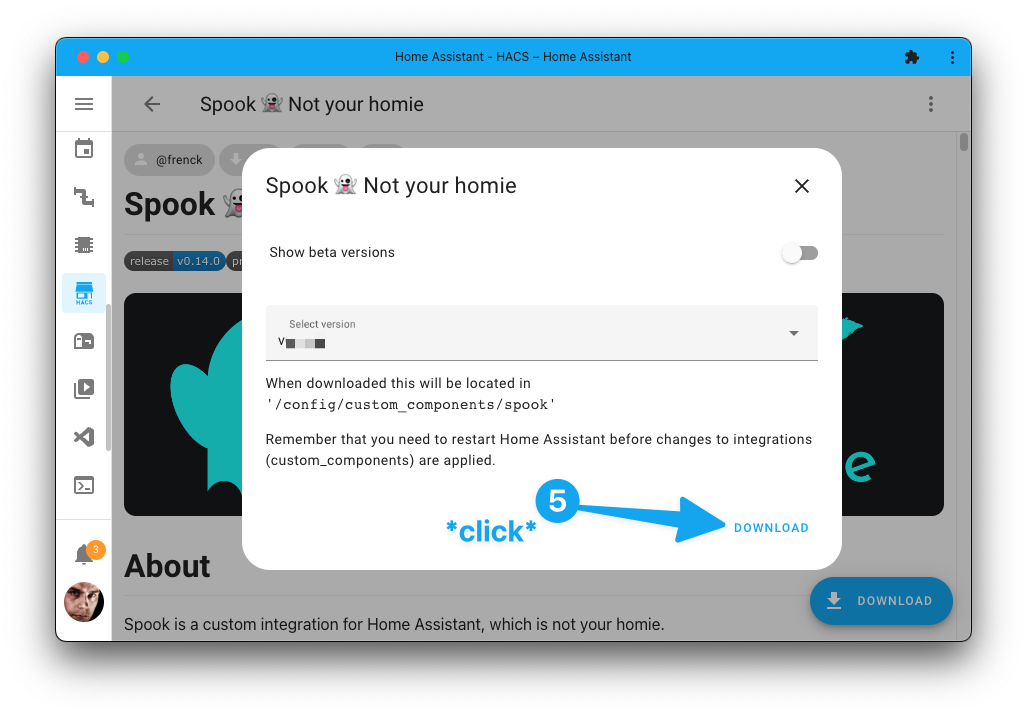
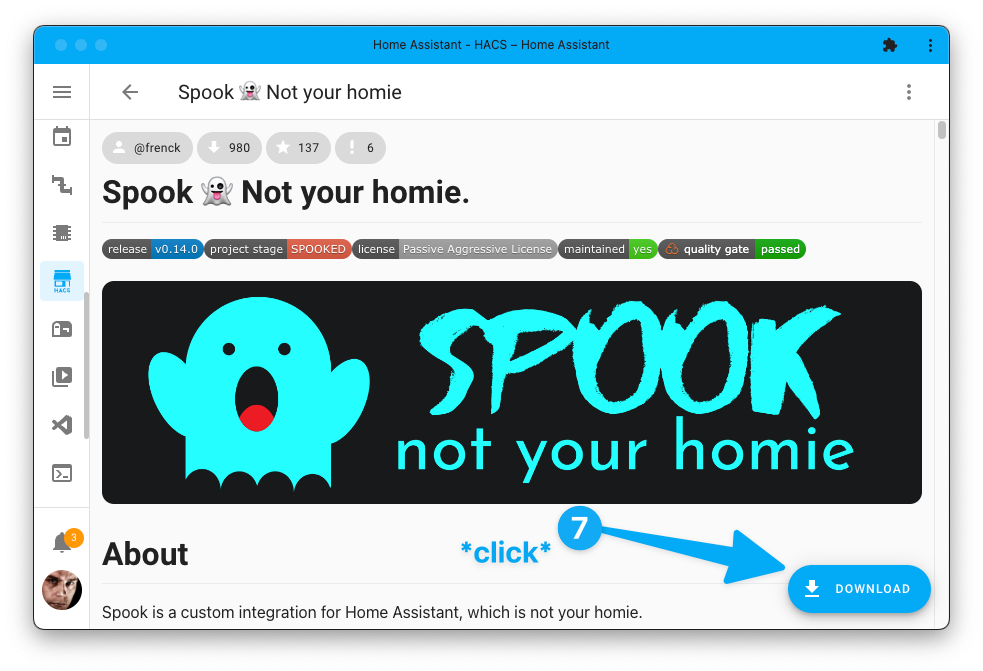
Extend installation for both HACS standard and experimental

diff --git a/documentation/installation.md b/documentation/installation.md
@@ -46,17 +46,38 @@ If you have met these requirements, you are ready to install Spook. 🎉
 
 Time to download and install Spook 👻 onto your Home Assistant instance.
 
+:::{note}
+HACS can be configured to run in two different modes: **standard** and **experimental**. Spook is available in both modes, but the installation process is slightly different.
+If you are using the **experimental** mode, be sure to select the **HACS with experimental mode enabled** tab below.
+:::
+
 :::{tip}
 You can use select the {term}`My Home Assistant` button below, which will navigate you to Spook in HACS directly on your Home Assistant instance.
 
 [![Open your Home Assistant instance and open a repository inside the Home Assistant Community Store.](https://my.home-assistant.io/badges/hacs_repository.svg)](https://my.home-assistant.io/redirect/hacs_repository/?owner=frenck&repository=spook&category=integration)
 
-You can skip step 1, 2, and 3 if you use the button above.
+You can directly go to step 6 if you use the button above (step 4 in case of using HACS experimental mode).
 :::
 
+::::{tab-set}
+
+:::{tab-item} Standard HACS
+:sync: standard
+
 1. From the Home Assistant sidebar, select **HACS**. This will open the Home Assistant Community Store dashboard.
-2. Select the search bar in the top of the dashboard and search for `Spook`.
-3. Spook should now appear in the search results. Select it.
+2. Select **Integrations**.
+
+   ```{figure} images/installation/hacs_integrations.png
+   :name: Open HACS and go to integrations
+   :alt: Screenshot showing the HACS dashboard.
+   :align: center
+
+   Spook is an integration, so we need to go to the integrations page in HACS.
+   ```
+
+3. Select the **Explore & download repositories** button in the bottom right corner.
+4. Select the search bar in the dialog shown and search for `Spook`.
+5. Spook should now appear in the search results. Select it.
 
    ```{figure} images/installation/hacs_find_spook.png
    :name: Find and install Spook in HACS
@@ -66,7 +87,7 @@ You can skip step 1, 2, and 3 if you use the button above.
    Finding Spook in the Home Assistant Community Store.
    ```
 
-4. On the Spook page in HACS, select the **Download** button in the bottom right corner.
+6. On the Spook page in HACS, select the **Download** button in the bottom right corner.
 
    ```{figure} images/installation/hacs_download_fab.png
    :name: Select the Download button on the Spook page in HACS
@@ -76,9 +97,60 @@ You can skip step 1, 2, and 3 if you use the button above.
    Select the big download button in the bottom right.
    ```
 
-5. In the download dialog shown, select **Download** to download the Spook integration to your Home Assistant instance.
+7. In the download dialog shown, select **Download** to download the Spook integration to your Home Assistant instance.
 
    ```{figure} images/installation/hacs_download.png
+   :name: Download Spook in HACS
+   :alt: Screenshot showing the download dialog in HACS.
+   :align: center
+
+   Download Spook in HACS.
+   ```
+
+8. After the download process has completed you need to restart Home Assistant in order for Home Assistant to see the new Spook integration.
+
+   1. Select **Settings** from the sidebar, and then select **System**.
+   2. Select the power button in the top right corner.
+   3. Select **Restart Home Assistant** in the dialog that appears.
+
+   ```{figure} images/installation/restart_home_assistant.png
+   :name: Restart Home Assistant
+   :alt: Screenshot showing the Home Assistant restart dialog.
+   :align: center
+
+   Restart Home Assistant.
+   ```
+
+:::
+
+:::{tab-item} HACS with experimental mode enabled
+:sync: experimental
+
+1. From the Home Assistant sidebar, select **HACS**. This will open the Home Assistant Community Store dashboard.
+2. Select the search bar in the top of the dashboard and search for `Spook`.
+3. Spook should now appear in the search results. Select it.
+
+   ```{figure} images/installation/hacs_experimental_find_spook.png
+   :name: Find and install Spook in HACS
+   :alt: Screenshot showing the HACS dashboard searching for Spook.
+   :align: center
+
+   Finding Spook in the Home Assistant Community Store.
+   ```
+
+4. On the Spook page in HACS, select the **Download** button in the bottom right corner.
+
+   ```{figure} images/installation/hacs_experimental_download_fab.png
+   :name: Select the Download button on the Spook page in HACS
+   :alt: Screenshot showing the Spook page in the HACS store.
+   :align: center
+
+   Select the big download button in the bottom right.
+   ```
+
+5. In the download dialog shown, select **Download** to download the Spook integration to your Home Assistant instance.
+
+   ```{figure} images/installation/hacs_experimental_download.png
    :name: Download Spook in HACS
    :alt: Screenshot showing the download dialog in HACS.
    :align: center
@@ -92,13 +164,17 @@ You can skip step 1, 2, and 3 if you use the button above.
    2. Select the power button in the top right corner.
    3. Select **Restart Home Assistant** in the dialog that appears.
 
-   ```{figure} images/installation/restart_home_assistant.png
+   ```{figure} images/installation/experimental_restart_home_assistant.png
    :name: Restart Home Assistant
    :alt: Screenshot showing the Home Assistant restart dialog.
    :align: center
 
    Restart Home Assistant.
    ```
+
+:::
+
+::::
 
 After Home Assistant has restarted, you are ready to activate the Spook integration.
 
